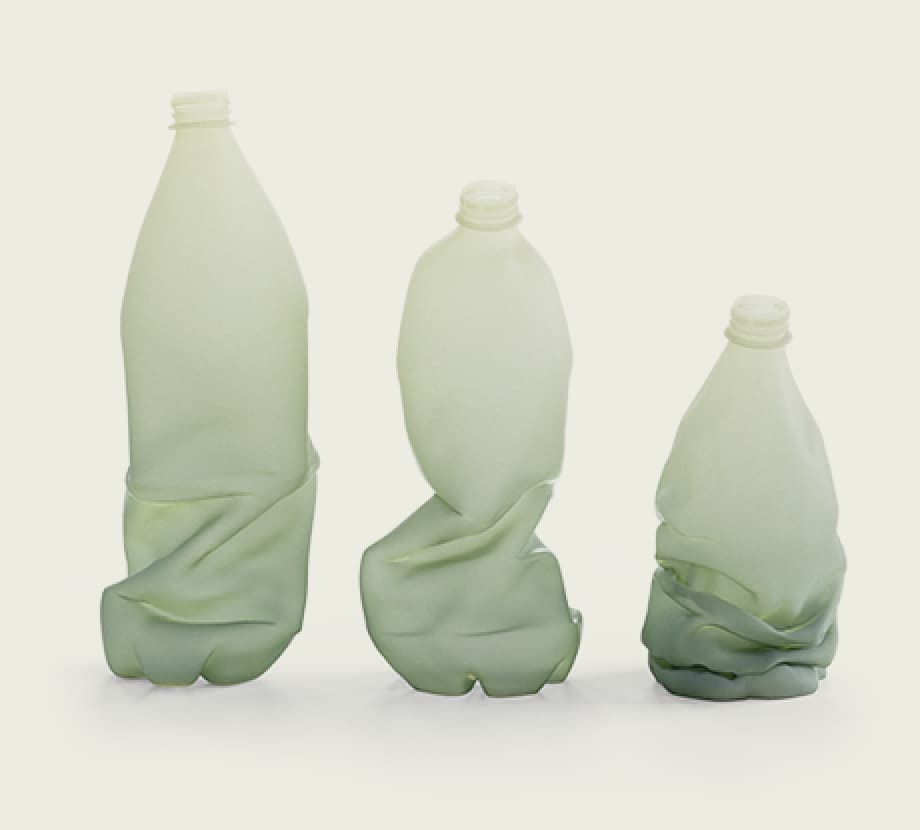
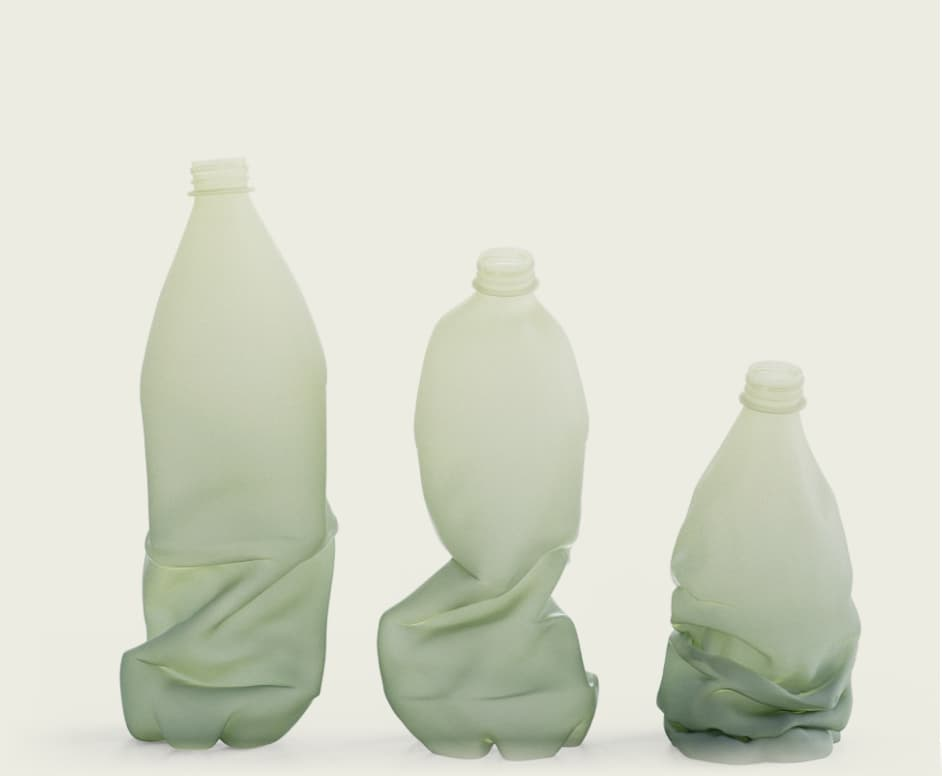
update images / collapse

Changed region(s): [[0.0913, 0.0928, 0.9435, 0.9897], [0.213, 0.4948, 0.2435, 0.5258]]

diff --git a/web/src/scss/pages/home.scss b/web/src/scss/pages/home.scss
@@ -382,8 +382,8 @@
 
       .enhanced-picture {
         transition: transform 1.25s $ease-out-expo;
-        transform: scale(math.div(135, 403), math.div(139, 330))
-          translate3d(#{fluid(-490, $lg)}, #{fluid(220, $lg)}, 0);
+        transform: scale(math.div(135, 470), math.div(139, 388))
+          translate3d(#{fluid(-590, $lg)}, #{fluid(360, $lg)}, 0);
       }
 
       .enhanced-sno {
@@ -402,9 +402,16 @@
       width: fluid(968, $lg);
 
       .enhanced-picture {
-        min-width: fluid(968, $lg);
-        width: fluid(968, $lg);
+        min-width: fluid(1034, $lg);
+        width: fluid(1034, $lg);
         height: fluid(462, $lg);
+        position: relative;
+
+        img {
+          position: absolute;
+          left: fluid(-50, $lg);
+          top: 0;
+        }
       }
     }
   }
@@ -460,8 +467,8 @@
 
   .enhanced-picture {
     min-width: fluid(403, $lg);
-    width: fluid(403, $lg);
-    height: fluid(330, $lg);
+    width: fluid(470, $lg);
+    height: fluid(388, $lg);
     background: $green;
     transition: transform 1.25s $ease-out-expo;
   }
